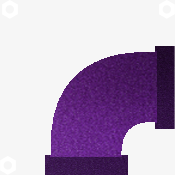
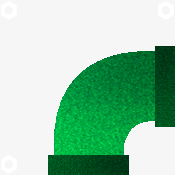
asset düzenlemesi

diff --git a/src/Tiles/EmptyFree.java b/src/Tiles/EmptyFree.java
@@ -8,7 +8,7 @@ public class EmptyFree extends Tile implements Movable {
         return true;
     }
     public EmptyFree(){
-        setImage(new Image("EmptyFree.jpg"));
+        setImage(new Image("EmptyFree.png"));
         setStatus("EmptyFree");
     }
 }
